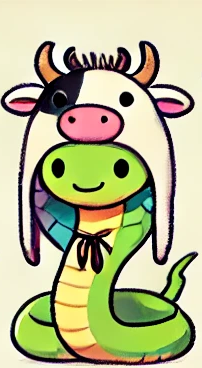
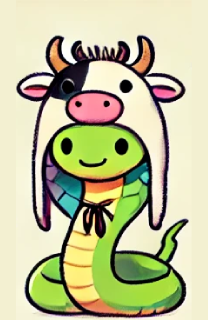
* adjust images height and width to be equal *  fox and wolf images on event modal * fixes * some cleanups

diff --git a/static/js/scripts.js b/static/js/scripts.js
@@ -74,11 +74,38 @@ document.getElementById('roll-dice-btn').addEventListener('click', function () {
 
         console.debug('Current Player:', currentPlayer);
         updatePlayerTurn();  // Update the player turn UI
+        if (data.green === "Wolf" || data.red === "Wolf") {
+            showEventModal('wolf-attack');
+        }
+        if (data.green === "Fox" || data.red === "Fox") {
+            showEventModal('fox-swipe');
+    }
     })
     .catch(error =>
     {console.error('Error during dice roll:', error)
     showToaster('Error during dice roll.', 'negative');});
 });
+
+    // Handle modal with event - wolf attack or fox swiping
+    function showEventModal(eventType) {
+        const eventModal = document.getElementById('event-modal');
+        const eventMessage = document.getElementById('event-description');
+        const eventImage = document.getElementById('event-image');
+        const eventTitle = document.getElementById('event-title');
+
+        if (eventType === 'wolf-attack') {
+            eventModal.style.display = 'block';
+            eventTitle.textContent = 'Event: Wolf Attack!';
+            eventMessage.textContent = 'The wolf has attacked your herd! Pray you have wolf repellent!';
+            eventImage.src = '/static/img/wolf_snake.png';
+        } else {
+            eventModal.style.display = 'block';
+            eventTitle.textContent = 'Event: Fox Swipe!';
+            eventMessage.textContent = 'The fox has swiped some of your animals! Be prepared!';
+            eventImage.src = '/static/img/fox_snake.png';
+        }
+    }
+
 
 
 // Ensure modal is initialized with correct content
@@ -108,6 +135,10 @@ document.getElementById('make-exchange-btn').addEventListener('click', function(
 document.getElementById('cancel-exchange').addEventListener('click', function() {
     document.getElementById('exchange-modal').style.display = 'none';
 });
+// Handle the event modal close
+document.getElementById('close-event').addEventListener('click', function() {
+     document.getElementById('event-modal').style.display = 'none';
+     });
 
 // Toggle between Main Herd and Player exchange when dropdown value changes
 document.getElementById('exchange-with').addEventListener('change', function() {
@@ -120,7 +151,7 @@ function toggleExchangeMode(exchangeWith) {
     const playerExchangeSection = document.getElementById('player-exchange');
 
     if (exchangeWith === 'main-herd') {
-        mainHerdSection.style.display = 'block';
+        mainHerdSection.style.display = 'flex';
         playerExchangeSection.style.display = 'none';
     } else {
         mainHerdSection.style.display = 'none';
@@ -299,6 +330,40 @@ function refreshPendingRequests() {
     setTimeout(() => {
         toasterContainer.removeChild(toaster);
     }, 5000);
+}
+document.addEventListener('DOMContentLoaded', function() {
+    // Fetch exchange rules from the backend
+    fetch('/exchange-rules')
+        .then(response => response.json())
+        .then(data => {
+            console.debug('Exchange Rules:', data);
+            populateExchangeOptions(data);
+        })
+        .catch(error => {
+            console.error('Error fetching exchange rules:', error);
+            showToaster('Error fetching exchange rules.', 'negative');
+        });
+});
+
+function populateExchangeOptions(rules) {
+    const mainHerdExchangeDiv = document.getElementById('main-herd-exchange');
+    const exchangeRatesDiv = document.getElementById('exchange-rates');
+    console.debug('Rules:', rules);
+
+    for (const [key, value] of Object.entries(rules)) {
+        const [fromAnimal, toAnimal] = key.split('-');
+        const { offered_amount: offeredAmount, requested_amount: requestedAmount } = value;
+        console.debug('From:', fromAnimal, 'To:', toAnimal);
+        console.debug('Offered:', offeredAmount, 'Requested:', requestedAmount);
+
+        const label = document.createElement('label');
+        label.innerHTML = `<input type="radio" name="exchange-ratio" value="${fromAnimal}-${toAnimal}" data-ratio="${offeredAmount}-${requestedAmount}"> ${offeredAmount} ${fromAnimal}s for ${requestedAmount} ${toAnimal}`;
+        mainHerdExchangeDiv.appendChild(label);
+
+        const rateItem = document.createElement('div');
+        rateItem.textContent = `${offeredAmount} ${fromAnimal}s for ${requestedAmount} ${toAnimal}`;
+        exchangeRatesDiv.appendChild(rateItem);
+    }
 }
 
 

diff --git a/templates/game.html b/templates/game.html
@@ -63,26 +63,20 @@
         </div>
 
     </div>
-
-    <!-- Dice Display (Center) -->
-    <div id="dice-display">
-        🎲 Roll, 🎲 Dice
-    </div>
-
-    <!-- Exchange Rates (Left Column) -->
-    <div id="exchange-rates">
-        <h3>Exchange Rates</h3>
-        <p>6 Rabbits = 1 Sheep</p>
-        <p>2 Sheep = 1 Pig</p>
-        <p>3 Pigs = 1 Cow</p>
-        <p>2 Cows = 1 Horse</p>
-    </div>
-
-    <!-- Pending Exchange Requests (Right Column) -->
-    <div id="pending-requests">
-        <h3>Pending Exchange Requests</h3>
-        <ul id="requests-list"></ul>
-
+    <div id="main-container">
+        <!-- Exchange Rates (Left Column) -->
+        <div id="exchange-rates">
+            <h3>Exchange Rates</h3>
+        </div>
+        <!-- Dice Display (Center) -->
+        <div id="dice-display">
+            🎲 Roll, 🎲 Dice
+        </div>
+        <!-- Pending Exchange Requests (Right Column) -->
+        <div id="pending-requests">
+            <h3>Pending Exchange Requests</h3>
+            <ul id="requests-list"></ul>
+        </div>
     </div>
 
     <!-- Control Buttons (Bottom-Center, Above Player's Herd) -->
@@ -110,18 +104,7 @@
 
         <!-- Main Herd exchange radio buttons (initially hidden) -->
         <div id="main-herd-exchange" style="display:none;">
-            <h4>Main Herd Exchange Options</h4>
-            <label>
-                <input type="radio" name="exchange-ratio" value="Rabbit-Sheep" data-ratio="6-1"> 6 Rabbits for 1 Sheep            </label>
-            <label>
-                <input type="radio" name="exchange-ratio" value="Sheep-Pig" data-ratio="2-1"> 2 Sheep for 1 Pig
-            </label>
-            <label>
-                <input type="radio" name="exchange-ratio" value="Pig-Cow" data-ratio="3-1"> 3 Pigs for 1 Cow
-            </label>
-            <label>
-                <input type="radio" name="exchange-ratio" value="Cow-Horse" data-ratio="2-1"> 2 Cows for 1 Horse
-            </label>
+            <!--h4>Main Herd Exchange Options</h4><br-->
         </div>
 
         <!-- Player-to-Player exchange fields (default visible) -->
@@ -173,15 +156,13 @@
     <!-- to display WOLF and FOX events -->
     <div id="event-modal" class="modal" style="display:none;">
         <div class="modal-content">
-            <h3>Event</h3>
+            <h3 id="event-title"></h3>
             <!-- image of the event -->
             <img id="event-image" src="" alt="Event Image">
             <p id="event-description"></p>
             <button id="close-event">Close</button>
         </div>
     </div>
-
-
 
     <!-- Player's Herd (Bottom-Center, Mirroring Main Herd) -->
     <div id="player-herd">

diff --git a/static/css/styles.css b/static/css/styles.css
@@ -18,15 +18,15 @@
         }
         /* Main Herd Display */
         #main-herd {
-            margin: 20px auto;
+            margin: 10px auto;
             display: grid;
-            grid-template-columns: repeat(5, 1fr);  /* Grid of animal tiles */
+            grid-template-columns: repeat(7, 1fr);  /* Grid of animal tiles */
             gap: 10px;
             justify-content: center;
             max-width: 600px;
         }
         .animal-tile {
-            padding: 20px;
+            padding: 5px;
             background-color: #e0e0e0;
             border-radius: 8px;
             box-shadow: 2px 2px 5px rgba(0, 0, 0, 0.2);
@@ -52,6 +52,13 @@
             color: white;  /* White seems good to consider YELLOW */
             text-shadow: 1px 1px 2px rgba(0, 0, 0, 0.5);  /* for better readability */
         }
+        #main-container
+        {
+            display: flex;
+            justify-content: space-between;
+            align-items: center;
+            margin: 20px;
+        }
         /* Dice Display */
         #dice-display {
             margin: 20px 0;
@@ -66,7 +73,7 @@
             vertical-align: top;
         }
         /* Pending Exchange Requests (Right Column) */
-        #pending-requests {
+        #exchange-rates, #pending-requests {
             background-color: #f9f9f9;
             border: 1px solid #ddd;
             padding: 10px;
@@ -83,7 +90,7 @@
         #player-herd {
             margin: 30px auto;
             display: grid;
-            grid-template-columns: repeat(5, 1fr);
+            grid-template-columns: repeat(7, 1fr);
             gap: 10px;
             justify-content: center;
             max-width: 600px;
@@ -124,7 +131,7 @@
         }
 
 		/* Modal for Exchange Request */
-        #exchange-modal {
+        #exchange-modal, #event-modal {
             display: none;
             position: fixed;
             top: 50%;
@@ -164,12 +171,27 @@
             margin-top: 10px;
         }
 
+        /* Ensure two columns in exchange modal */
+        #main-herd-exchange {
+            display: flex;
+            flex-wrap: wrap;
+            gap: 10px; /* Add gap for better spacing */
+            margin-bottom: 10px;
+        }
+
+        #main-herd-exchange label {
+            flex: 1 1 calc(50% - 10px); /* Adjust the width to fit two columns with gap */
+            margin-bottom: 10px; /* Add margin for better spacing */
+        }
+
+        /*Toaster Styling */
         #toaster-container {
             position: fixed;
             top: 20px;
             right: 20px;
             z-index: 1000;
         }
+
 
         .toaster {
             display: flex;

diff --git a/game/exchange_board.py b/game/exchange_board.py
@@ -1,6 +1,3 @@
-"""Module to handle animals exchange rates."""
-
-
 # game/exchange_board.py
 class ExchangeBoard:
     """Class to handle animals exchange rates."""
@@ -9,9 +6,17 @@ class ExchangeBoard:
     @classmethod
     def set_exchange_rate(cls, from_animal, to_animal, offered_amount, requested_amount):
         """Set exchange rate between two animals using offered and requested amounts."""
-        cls.exchange_rates[(from_animal, to_animal)] = (offered_amount, requested_amount)
+        cls.exchange_rates[f"{from_animal}-{to_animal}"] = {
+            "offered_amount": offered_amount,
+            "requested_amount": requested_amount
+        }
 
     @classmethod
     def get_exchange_rate(cls, from_animal, to_animal):
         """Get exchange rate between two animals."""
-        return cls.exchange_rates.get((from_animal, to_animal), (0, 0))
+        return cls.exchange_rates.get(f"{from_animal}-{to_animal}", {"offered_amount": 0, "requested_amount": 0})
+
+    @classmethod
+    def get_all_exchange_rates(cls):
+        """Get all exchange rates."""
+        return cls.exchange_rates

diff --git a/app.py b/app.py
@@ -1,7 +1,10 @@
 """ Main application file for the game. """
 import os
+from typing import Dict, Any
 
 from flask import Flask, jsonify, request, render_template, redirect, url_for, session
+
+from game.exchange_board import ExchangeBoard
 from game.game_manager import GameManager, check_victory_condition, roll_dice
 from game.player import Player
 
@@ -233,6 +236,13 @@ def forfeit():
     # You can add logic here to handle the forfeit
     game_manager.reset_game()  # Reset game state if that's the desired outcome
     return jsonify(success=True, message="Player forfeited and game reset.")
+
+
+@app.route('/exchange-rules', methods=['GET'])
+def exchange_rules():
+    """Render the exchange rules page."""
+    rules = ExchangeBoard.get_all_exchange_rates()
+    return jsonify(rules)
 
 
 if __name__ == '__main__':
